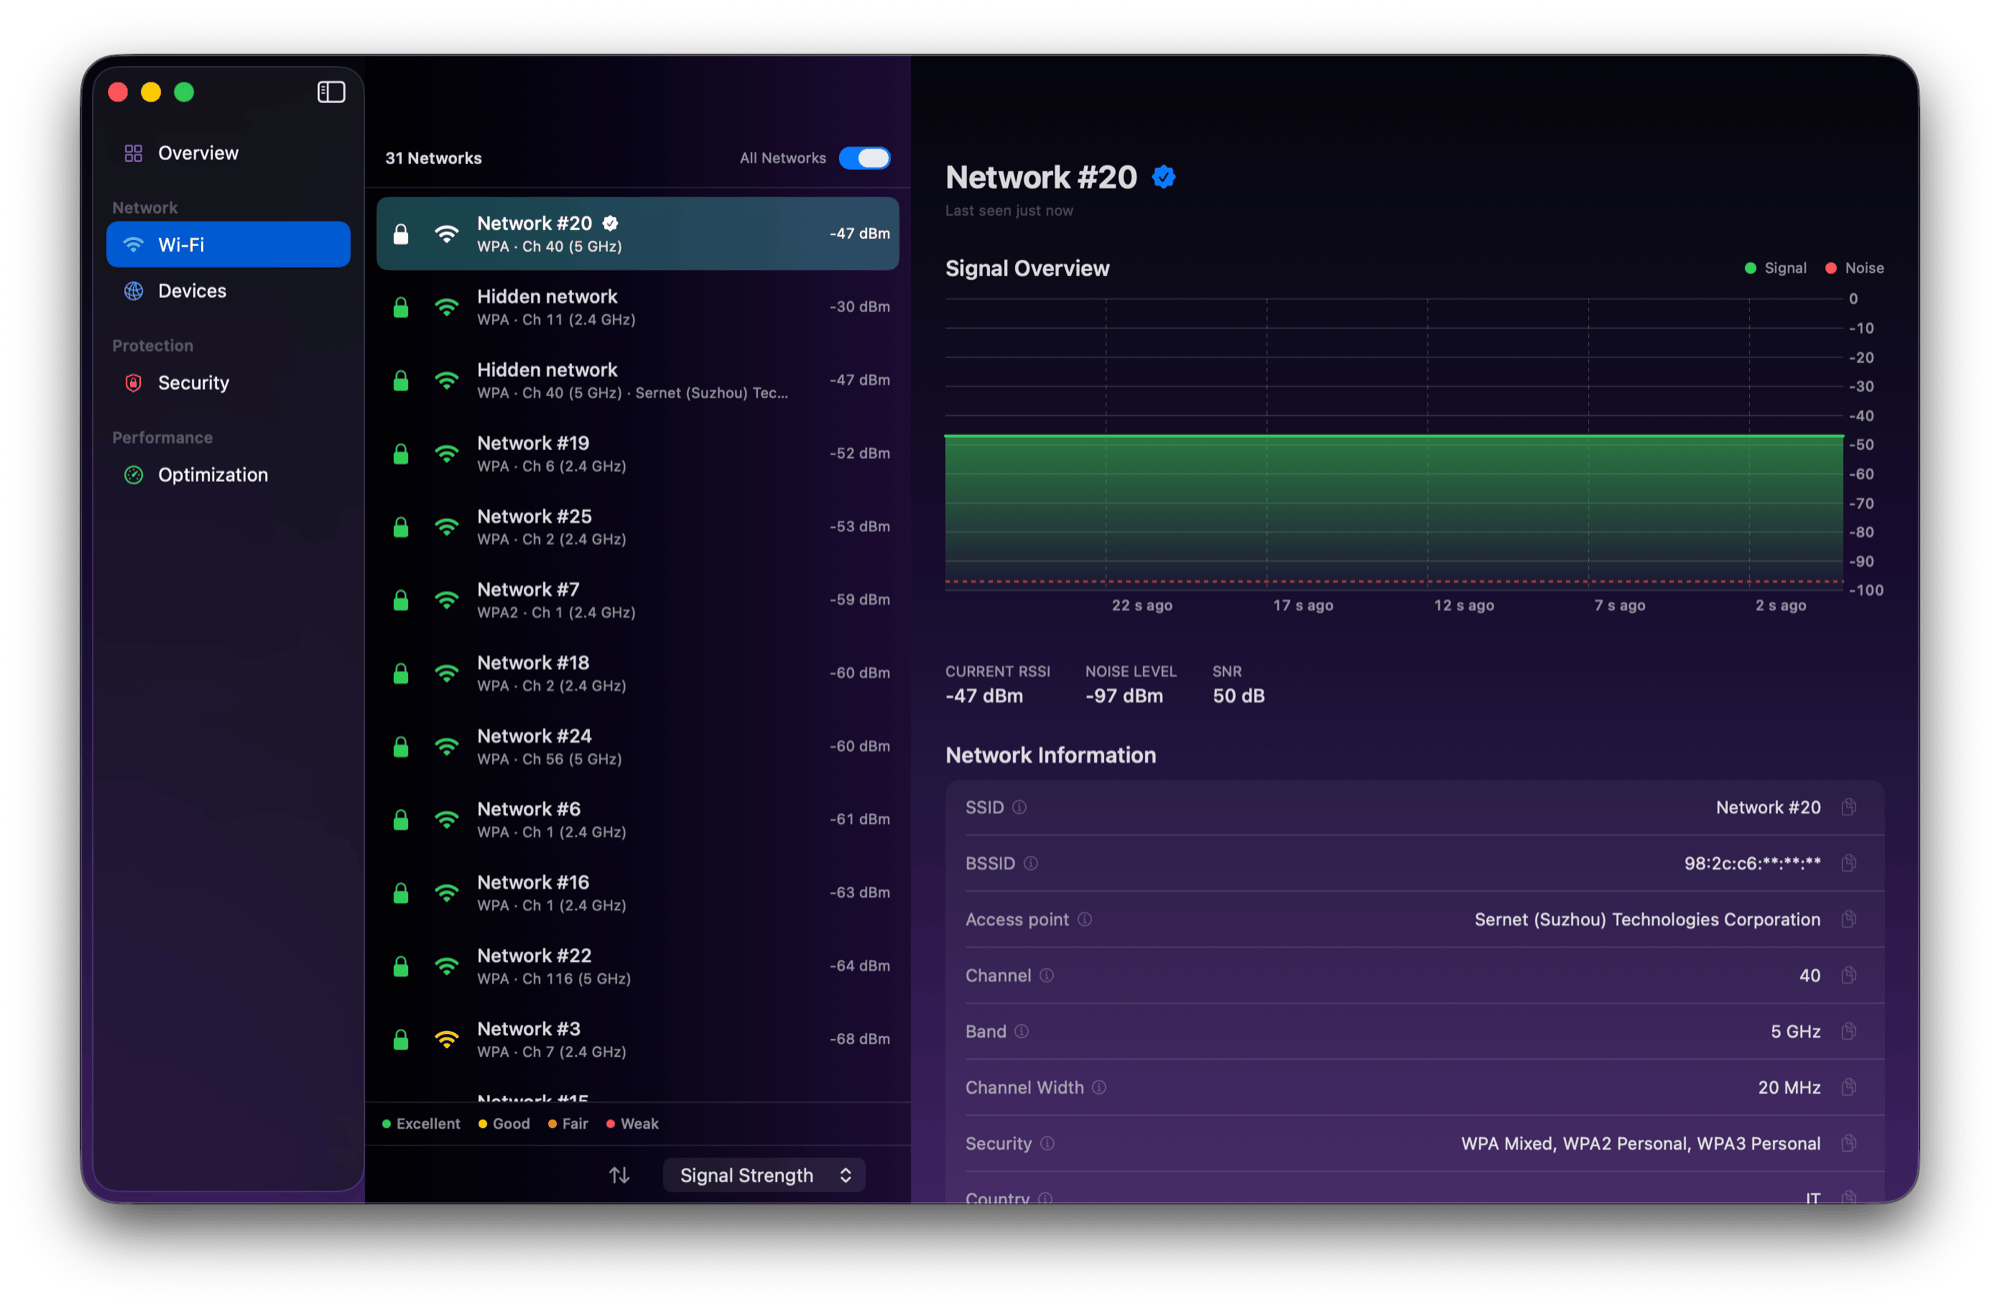
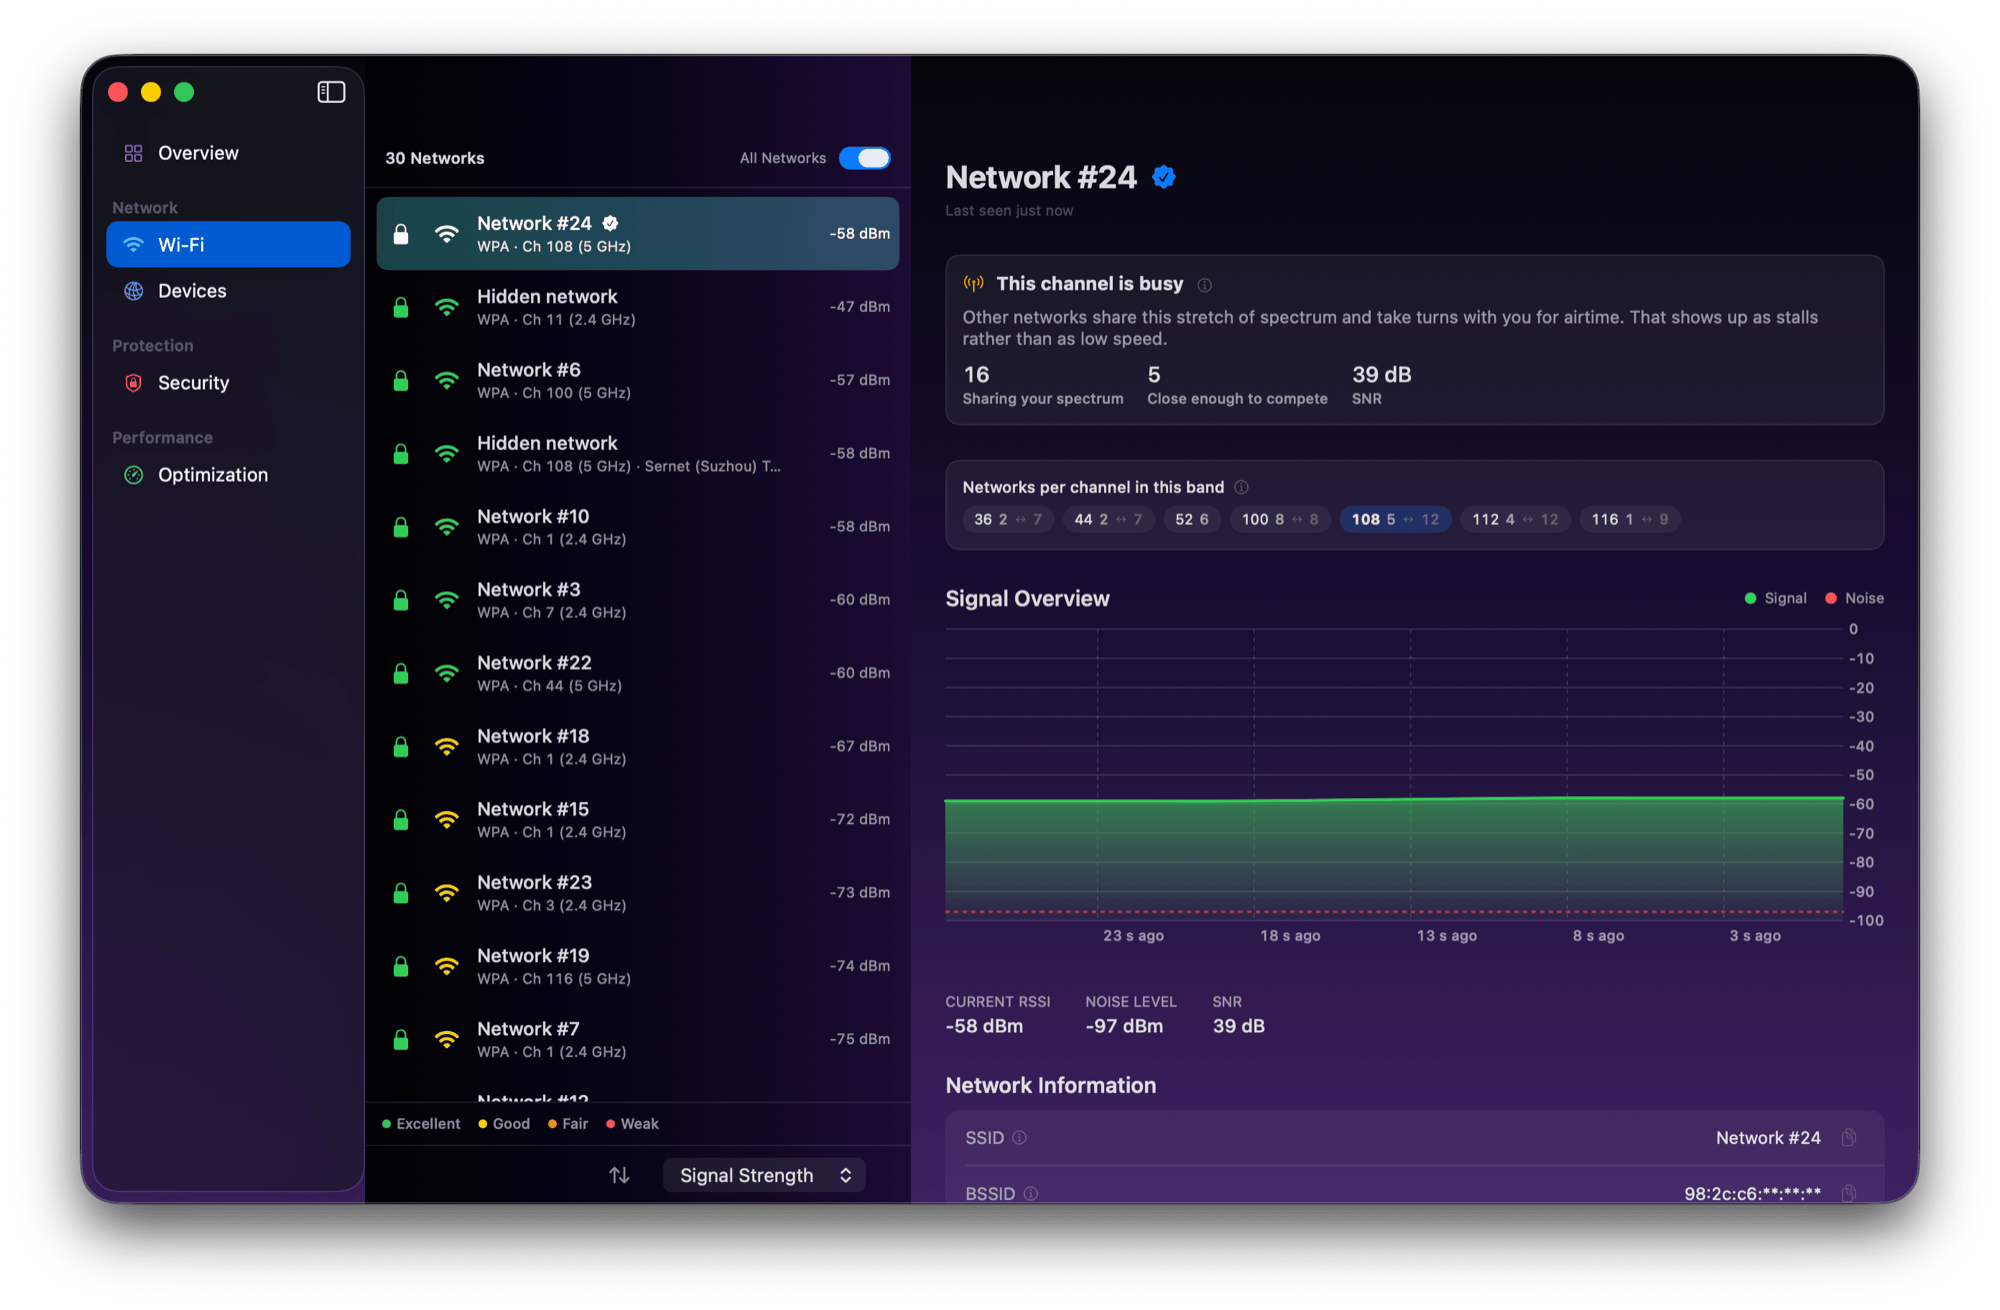
feat(sparkle): publish Netfox v0.17.0 to appcast

diff --git a/public/release-notes/0.17.0.html b/public/release-notes/0.17.0.html
@@ -1,0 +1,121 @@
+<!DOCTYPE html>
+<html lang="en">
+<head>
+<meta charset="utf-8">
+<meta name="viewport" content="width=device-width, initial-scale=1">
+<title>Netfox 0.17.0 — Release Notes</title>
+<style>
+  :root {
+    color-scheme: light dark;
+    --bg: #ffffff;
+    --fg: #1a1a1a;
+    --accent: #f76707;
+    --muted: #6b6b73;
+    --code-bg: #f4f4f5;
+    --border: rgba(0,0,0,0.12);
+  }
+  @media (prefers-color-scheme: dark) {
+    :root {
+      --bg: #1c1c1e;
+      --fg: #ececec;
+      --muted: #9c9ca5;
+      --code-bg: #2c2c2e;
+      --border: rgba(255,255,255,0.14);
+    }
+  }
+  * { box-sizing: border-box; }
+  body {
+    font: 14px/1.55 -apple-system, BlinkMacSystemFont, "SF Pro Text", "Helvetica Neue", sans-serif;
+    color: var(--fg);
+    background: var(--bg);
+    margin: 0 auto;
+    padding: 20px 24px 40px;
+    max-width: 720px;
+  }
+  header.page-header {
+    border-bottom: 1px solid var(--border);
+    padding-bottom: 14px;
+    margin-bottom: 22px;
+  }
+  header.page-header h1 { font-size: 1.7em; margin: 0 0 4px; letter-spacing: -0.02em; }
+  header.page-header .subtitle { color: var(--muted); margin: 0; font-size: 0.92em; }
+  h1, h2, h3, h4 { letter-spacing: -0.01em; margin: 1.5em 0 0.5em; }
+  h1 { font-size: 1.4em; }
+  h2 { font-size: 1.2em; }
+  h3 { font-size: 1em; }
+  a { color: var(--accent); }
+  hr { border: 0; border-top: 1px solid var(--border); margin: 22px 0; }
+  ul, ol { padding-left: 1.4em; }
+  li { margin: 4px 0; }
+  code {
+    font: 0.9em ui-monospace, "SF Mono", Menlo, Consolas, monospace;
+    background: var(--code-bg);
+    padding: 1px 5px;
+    border-radius: 3px;
+  }
+  pre {
+    background: var(--code-bg);
+    padding: 12px 14px;
+    border-radius: 6px;
+    overflow-x: auto;
+    font-size: 0.88em;
+  }
+  pre code { background: transparent; padding: 0; font-size: 1em; }
+  blockquote {
+    margin: 12px 0;
+    padding-left: 12px;
+    border-left: 3px solid var(--border);
+    color: var(--muted);
+  }
+  table { border-collapse: collapse; width: 100%; margin: 12px 0; font-size: 0.95em; }
+  th, td { border: 1px solid var(--border); padding: 6px 10px; text-align: left; }
+  th { background: var(--code-bg); }
+  img { max-width: 100%; }
+</style>
+</head>
+<body>
+<header class="page-header">
+  <h1>Netfox 0.17.0</h1>
+  <p class="subtitle">Release notes</p>
+</header>
+<p>Two questions this release answers without a terminal and without a router admin page: is my Wi-Fi the problem, and what is holding that port.</p>
+<h2>Is my Wi-Fi the problem?</h2>
+<p>The Wi-Fi tab already showed you the numbers. It did not tell you what they meant. Open the network you are connected to and the panel now answers the question in a sentence.</p>
+<ul>
+<li><strong>A verdict, in plain English.</strong> One of four: the Wi-Fi looks fine, the channel is busy, the signal is weak, or both at once. Which one it is decides what you should actually do — a busy channel and a weak signal call for opposite moves, and the numbers alone never said which you had.</li>
+<li><strong>The three numbers behind it.</strong> How many networks share your stretch of spectrum, how many of them are close enough in strength to compete with you for the channel, and your signal-to-noise ratio. The middle one is the one that decides the verdict, and it is deliberately not the same as the first: an access point far below yours overlaps your spectrum on paper without ever holding you up, so counting it would call a perfectly good link crowded.</li>
+<li><strong>A quieter channel, when one exists.</strong> Netfox names it, and judges the candidate by the width <em>your</em> access point would carry there rather than by the channel number alone.</li>
+<li><strong>Wide channels counted as what they are.</strong> An 80 MHz access point on channel 36 is using 36 through 48. A "quiet" channel inside that range is not quiet, and both the occupancy figures and the suggestion account for it.</li>
+<li><strong>The rest of the band, at a glance.</strong> A row of chips shows each channel in your band with how many networks sit on it and how many reach into it from a neighbouring block. Yours is marked.</li>
+<li><strong>It stays quiet when it cannot tell you honestly.</strong> A band it barely saw gets no channel suggestion. A "quieter" channel has to be quieter by a real margin, not by one access point. And where macOS gives no noise reading, the signal half is reported as unknown rather than assumed to be good — a verdict that read a missing measurement as a clean bill of health would be worse than no verdict.</li>
+</ul>
+<p>An (i) beside each part explains how it was worked out, for when the answer is surprising enough that you want to see the reasoning.</p>
+<h3>A hidden network is now explained</h3>
+<p>Hiding a network's name is widely believed to be a security measure. It is not one: the devices that already know the network broadcast its name while they look for it, so anything nearby can learn it by listening. Netfox used to label these networks and leave it there. It now says what the label means — and counts them toward the congestion picture, because an access point that withholds its name occupies spectrum exactly like one that publishes it.</p>
+<h2>Freeing a port on This Mac</h2>
+<p>Netfox would show you that something was holding port 3000. The next step was still a terminal. Each row on Local Services now has an action that asks that process to quit.</p>
+<ul>
+<li><strong>It asks first.</strong> The polite request, so a development server can save what it was holding. If the process ignores it, Netfox offers to force the matter — and only then, because forcing loses unsaved work.</li>
+<li><strong>The whole family, not the first one.</strong> A server that runs a worker per core is one row here and several processes behind it. All of them are asked, starting with the one that opened the socket. Asking only the first would leave the port held for no visible reason.</li>
+<li><strong>A refusal explains itself.</strong> A listener owned by another user or by the system needs privileges Netfox does not have and does not ask for. Those rows say so when you press them, rather than being a dead control.</li>
+<li><strong>It re-checks before it acts.</strong> A row is a snapshot of a moment that has already passed, and process IDs get reused. Netfox reads the port again immediately before sending anything, and stops if what it finds is not what you asked about.</li>
+</ul>
+<p>The action is unavailable while Demo Mode is on, since Demo Mode replaces process names with placeholders — a confirmation dialog naming something that is not the real target would be worse than no button at all.</p>
+<h2>More devices say what they are</h2>
+<p>The list of services Netfox recognises grew, after measuring what a real network actually answers for. One of the additions closes a blind spot rather than adding a nicety: HomeKit accessories announce themselves over the Accessory Protocol, which Netfox was not looking for — so they arrived as <strong>Unknown</strong> while the label for them existed and was unreachable. Screen sharing, scanning (both the modern and the older spelling that multifunction printers use), Matter and Spotify Connect are recognised and named too.</p>
+<h2>Under the hood</h2>
+<ul>
+<li><strong>The competing-neighbour threshold is measured, not chosen.</strong> On a real dense environment — 33 access points visible at 5 GHz, median −85 dBm against a −58 dBm link — the count of competing neighbours sat flat at 2 all the way out to 15 dB and only then climbed, reaching 11 by 25 dB. 15 dB is where the plateau ends, which is why that is the window.</li>
+<li><strong>Nothing new is probed, and nothing new is asked for.</strong> Occupancy, overlap and the verdict are all computed from the scan the Wi-Fi tab already performs. No new permission, no new traffic, no extra battery.</li>
+<li><strong>The quit path decides on fresh data.</strong> Eligibility is re-evaluated against the row read a moment before the signal is sent, not against the row on screen; a process that has become ineligible in between is refused rather than acted on. It then waits for the process to actually be gone rather than reporting success on a delivered signal.</li>
+<li><strong>An API with tests and no callers was deleted.</strong> <code class="notranslate">identitySummary</code> had coverage and zero call sites — the tests were proving that unused code kept working.</li>
+<li><strong>The test gate now refuses to run while the app is open.</strong> The app-hosted test bundle is a second process on the same stores, and the running app dies. It waits for the stores to be released instead of crashing the app that holds them.</li>
+<li><strong>Six languages, in step.</strong> Every new string is translated into Italian, French, German, Spanish, Portuguese and Dutch. Coverage is 817/817 on all six, plus 82/82 in the framework catalog.</li>
+<li><strong>475 + 215 tests, green.</strong></li>
+</ul>
+<h2>Install</h2>
+<p>Download the DMG, drag Netfox to Applications. Existing installs update themselves.</p>
+<h2>Requirements</h2>
+<p>macOS 15.6 or later. Universal (Apple Silicon + Intel). Signed and notarized.</p>
+</body>
+</html>

diff --git a/config/index.ts b/config/index.ts
@@ -88,7 +88,7 @@ export default {
     defaultLanguage: 'en',
   },
   app: {
-    version: '0.16.6',
+    version: '0.17.0',
     // 15.6, not 15.0: it is the pbxproj MACOSX_DEPLOYMENT_TARGET and the
     // appcast's sparkle:minimumSystemVersion. Only StructuredData reads this,
     // so a wrong value here is invisible on the page and still published to
